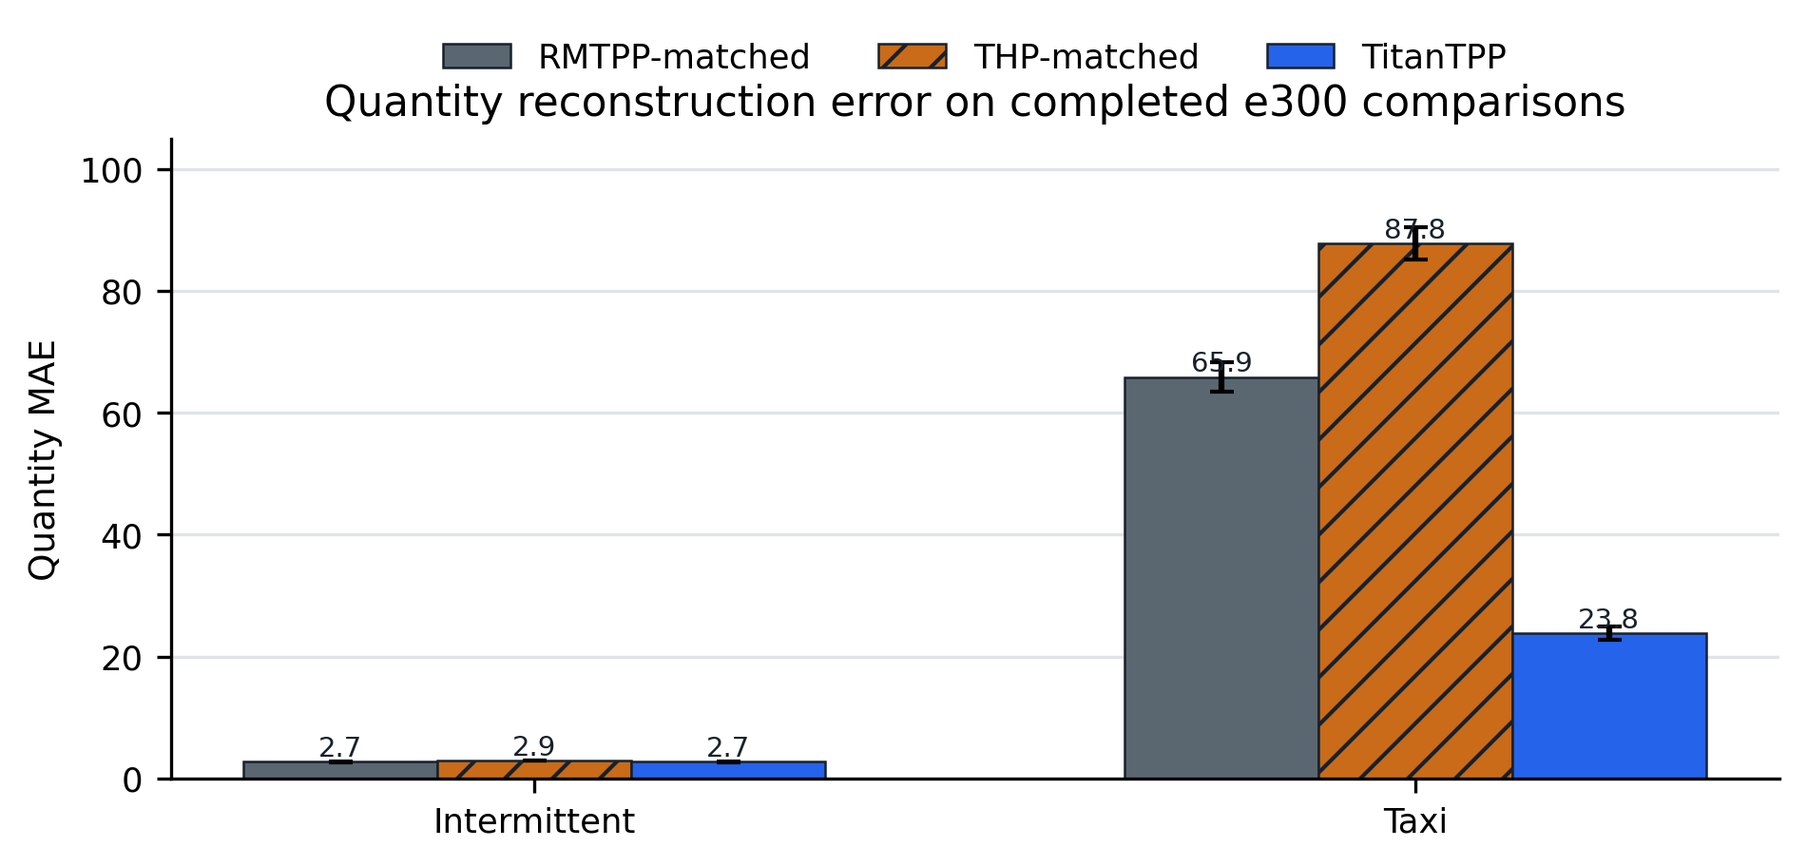
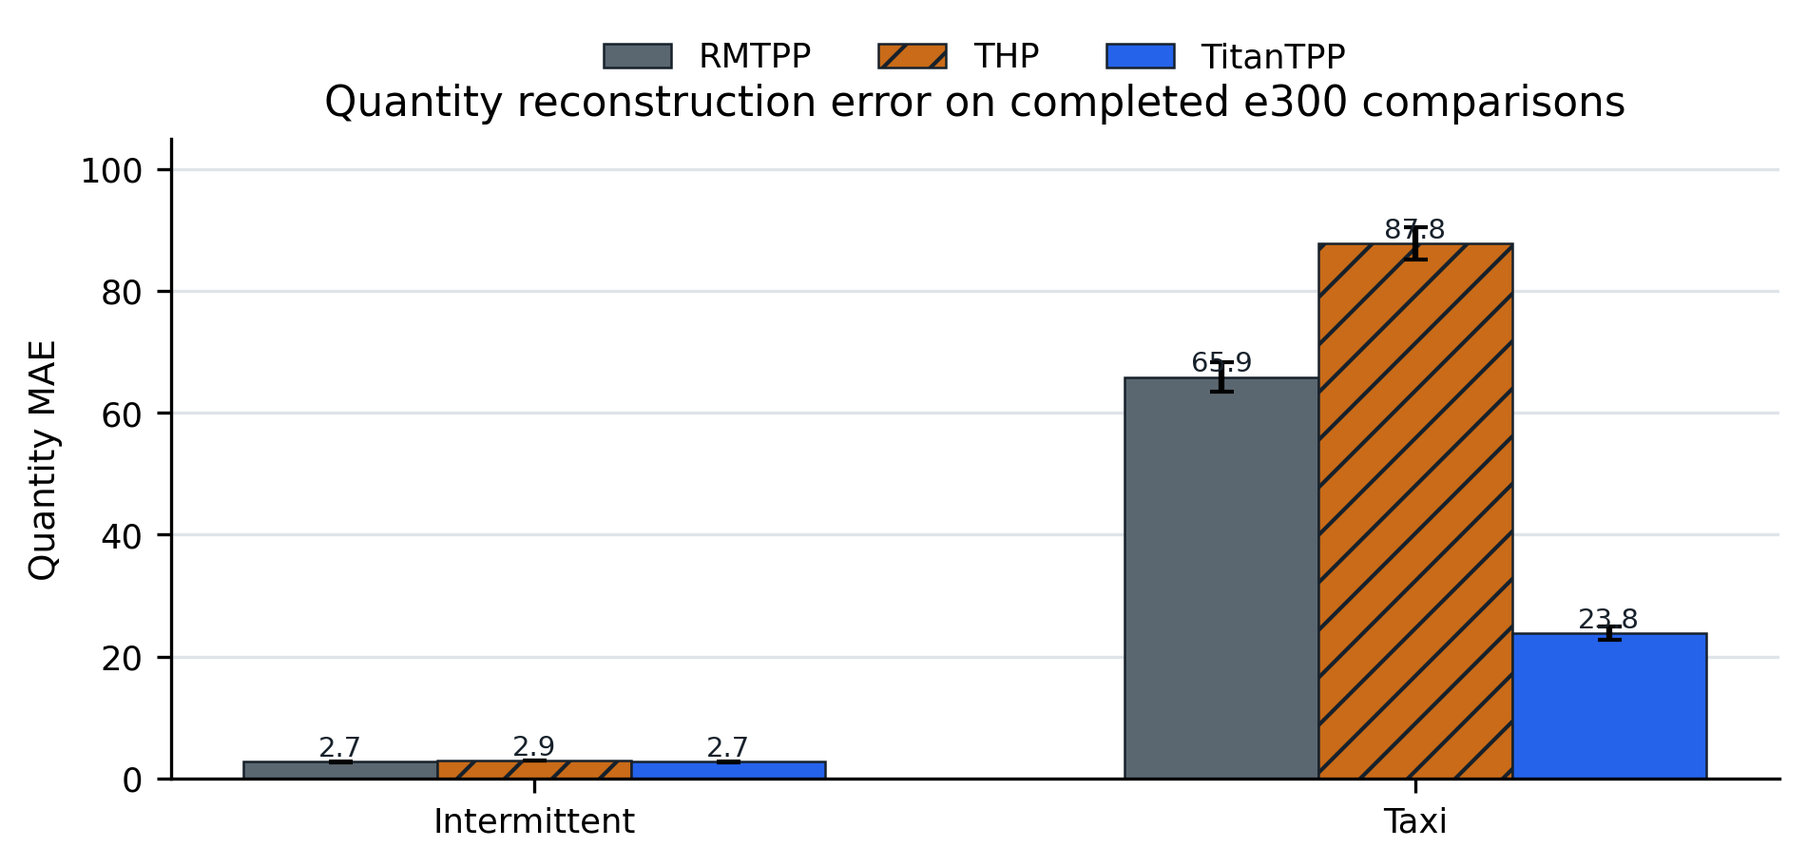
docs: simplify baseline labels and metric notation

Changed region(s): [[0.5587, 0.0307, 0.838, 0.0921], [0.2483, 0.0307, 0.4655, 0.0921]]

diff --git a/paper/scripts/build_inter_taxi_e300_results.py b/paper/scripts/build_inter_taxi_e300_results.py
@@ -27,17 +27,17 @@ DATASET_LABELS = {
 }
 
 MODEL_LABELS = {
-    "rmtpp": "RMTPP-matched",
-    "thp": "THP-matched",
+    "rmtpp": "RMTPP",
+    "thp": "THP",
     "titantpp": "TitanTPP",
 }
 
-MODEL_ORDER = ["RMTPP-matched", "THP-matched", "TitanTPP"]
+MODEL_ORDER = ["RMTPP", "THP", "TitanTPP"]
 DATASET_ORDER = ["Intermittent", "Taxi"]
 
 STYLE = {
-    "RMTPP-matched": {"color": "#5B6770", "hatch": ""},
-    "THP-matched": {"color": "#C96B18", "hatch": "//"},
+    "RMTPP": {"color": "#5B6770", "hatch": ""},
+    "THP": {"color": "#C96B18", "hatch": "//"},
     "TitanTPP": {"color": "#2563EB", "hatch": ""},
 }
 
@@ -85,13 +85,13 @@ def summarize(rows: pd.DataFrame) -> pd.DataFrame:
 
 
 def mean_std(row: pd.Series, metric: str, digits: int = 4) -> str:
-    return f"{row[f'{metric}_mean']:.{digits}f} +/- {row[f'{metric}_std']:.{digits}f}"
+    return f"{row[f'{metric}_mean']:.{digits}f} ± {row[f'{metric}_std']:.{digits}f}"
 
 
 def acc_mean_std(row: pd.Series) -> str:
     mean = row["best_val_nll_mark_acc_mean"] * 100.0
     std = row["best_val_nll_mark_acc_std"] * 100.0
-    return f"{mean:.3f}% +/- {std:.3f}%p"
+    return f"{mean:.3f}% ± {std:.3f}%p"
 
 
 def write_tables(summary: pd.DataFrame) -> None:

diff --git a/README.md b/README.md
@@ -75,7 +75,7 @@ $$
 \mathcal{L}=\mathcal{L}_{\mathrm{mark}}+\lambda_t\mathcal{L}_{\mathrm{time}}+\lambda_r\mathcal{L}_{\mathrm{res}}+\lambda_q\mathcal{L}_{\mathrm{qty}}.
 $$
 
-The compared models differ mainly in the history encoder. RMTPP-matched employs a GRU encoder, THP-matched employs a Transformer encoder, and TitanTPP employs a Titan-style causal memory-attention encoder with persistent memory. Intermittent and Instacart adopt a shared residual head and coupled gradient flow, while Taxi adopts mark-conditioned residual experts and detached quantity-to-mark gradients. Validation and test do not update memory, and state is not transferred across unrelated demand series.
+The compared models differ mainly in the history encoder. RMTPP employs a GRU encoder, THP employs a Transformer encoder, and TitanTPP employs a Titan-style causal memory-attention encoder with persistent memory. Intermittent and Instacart adopt a shared residual head and coupled gradient flow, while Taxi adopts mark-conditioned residual experts and detached quantity-to-mark gradients. Validation and test do not update memory, and state is not transferred across unrelated demand series.
 
 Figure 1 describes the proposed model flow. Event history enters the TitanTPP encoder, the encoder state feeds time and magnitude-mark heads, and the quantity path reconstructs demand through the mark-residual decoder. Figure 2 visualizes the quantity decomposition, including raw quantity, transformed magnitude mark, residual, and inverse reconstruction.
 
@@ -93,7 +93,7 @@ The evaluation uses Intermittent, Taxi, and Instacart demand-event datasets. Int
 | Taxi | 131 | 55,119 | 405 / 743 / 744 | 7 / 1,547 / 6,489 | 4 | 10 |
 | Instacart | 206,209 | 3,279,521 | 10 / 50 / 100 | 8 / 25 / 177 | 8 | 2 |
 
-RMTPP-matched and THP-matched are adapted baselines. They retain the encoder family of each original model, but they share the paper's residual quantity input, hybrid objective, output interface, fixed split, and checkpoint rule. This naming avoids presenting the runs as exact reproductions of the original RMTPP or THP papers. All models use seeds 42, 52, and 62, AdamW with learning rate 0.001, batch size 128, strict reproducibility mode, and minimum validation total NLL as the checkpoint rule. The held-out test split is evaluated once after validation-based model selection.
+RMTPP and THP are used as adapted baselines. Each baseline retains its original encoder family, but it shares the paper's quantity-aware input, output interface, hybrid objective, fixed split, and checkpoint rule. All models use seeds 42, 52, and 62, AdamW with learning rate 0.001, batch size 128, strict reproducibility mode, and minimum validation total NLL as the checkpoint rule. Values are reported as mean ± standard deviation over the three seeds. The held-out test split is evaluated once after validation-based model selection.
 
 ### 4.2 Results
 
@@ -101,14 +101,14 @@ Table 2 reports validation performance for Intermittent and Taxi, where all thre
 
 | Dataset | Model | Val NLL | Qty MAE | Delta-t MAE | Mark acc |
 |---|---|---:|---:|---:|---:|
-| Intermittent | RMTPP-matched | 5.6683 +/- 0.0115 | 2.7408 +/- 0.0493 | 41.8872 +/- 0.5030 | 55.183% +/- 0.236%p |
-| Intermittent | THP-matched | 5.6417 +/- 0.0305 | 2.8812 +/- 0.0177 | 40.5947 +/- 0.3284 | 54.235% +/- 0.637%p |
-| Intermittent | TitanTPP | 5.6171 +/- 0.0158 | 2.7188 +/- 0.1336 | 41.4268 +/- 0.5581 | 55.194% +/- 1.293%p |
-| Taxi | RMTPP-matched | 1.5803 +/- 0.0032 | 65.8580 +/- 2.4748 | 0.7326 +/- 0.0085 | 91.800% +/- 0.117%p |
-| Taxi | THP-matched | 1.5998 +/- 0.0087 | 87.7508 +/- 2.6771 | 0.7528 +/- 0.0224 | 91.461% +/- 0.202%p |
-| Taxi | TitanTPP | 1.5458 +/- 0.0048 | 23.7722 +/- 1.0929 | 0.7374 +/- 0.0151 | 92.606% +/- 0.134%p |
+| Intermittent | RMTPP | 5.6683 ± 0.0115 | 2.7408 ± 0.0493 | 41.8872 ± 0.5030 | 55.183% ± 0.236%p |
+| Intermittent | THP | 5.6417 ± 0.0305 | 2.8812 ± 0.0177 | 40.5947 ± 0.3284 | 54.235% ± 0.637%p |
+| Intermittent | TitanTPP | 5.6171 ± 0.0158 | 2.7188 ± 0.1336 | 41.4268 ± 0.5581 | 55.194% ± 1.293%p |
+| Taxi | RMTPP | 1.5803 ± 0.0032 | 65.8580 ± 2.4748 | 0.7326 ± 0.0085 | 91.800% ± 0.117%p |
+| Taxi | THP | 1.5998 ± 0.0087 | 87.7508 ± 2.6771 | 0.7528 ± 0.0224 | 91.461% ± 0.202%p |
+| Taxi | TitanTPP | 1.5458 ± 0.0048 | 23.7722 ± 1.0929 | 0.7374 ± 0.0151 | 92.606% ± 0.134%p |
 
-On Intermittent, TitanTPP obtains the lowest validation NLL and quantity MAE among the three models, while its event-time error remains between RMTPP-matched and THP-matched. On Taxi, TitanTPP obtains the lowest validation NLL, the lowest quantity MAE, and the highest mark accuracy; RMTPP-matched retains a small advantage on $\Delta t$ MAE. These results support a bounded claim: the TitanTPP formulation improves likelihood and quantity reconstruction on the completed comparisons, but event-time prediction still depends on the dataset and metric.
+On Intermittent, TitanTPP obtains the lowest validation NLL and quantity MAE among the three models, while its event-time error remains between RMTPP and THP. On Taxi, TitanTPP obtains the lowest validation NLL, the lowest quantity MAE, and the highest mark accuracy; RMTPP retains a small advantage on $\Delta t$ MAE. These results support a bounded claim: the TitanTPP formulation improves likelihood and quantity reconstruction on the completed comparisons, but event-time prediction still depends on the dataset and metric.
 
 ![Validation NLL comparison](paper/results/e300_matched_20260808/figures/inter_taxi_e300_validation_nll.png)
 
@@ -116,13 +116,13 @@ On Intermittent, TitanTPP obtains the lowest validation NLL and quantity MAE amo
 
 ### 4.3 Ablation and analysis
 
-The ablation focuses on model components that directly support the proposed formulation. The first analysis compares RMTPP-original and RMTPP-matched to estimate the effect of the quantity interface, although this comparison changes several components and should be interpreted cautiously. The second analysis compares RMTPP-matched, THP-matched, and TitanTPP under the same quantity representation to separate encoder effects. The third analysis focuses on Taxi, where mark-conditioned residual experts and detached quantity-to-mark gradients are used to reduce interference between quantity reconstruction and event likelihood.
+The ablation focuses on model components that directly support the proposed formulation. The first analysis compares RMTPP-original and RMTPP to estimate the effect of the quantity interface, although this comparison changes several components and should be interpreted cautiously. The second analysis compares RMTPP, THP, and TitanTPP under the same quantity representation to separate encoder effects. The third analysis focuses on Taxi, where mark-conditioned residual experts and detached quantity-to-mark gradients are used to reduce interference between quantity reconstruction and event likelihood.
 
 ## 5. Conclusion
 
 This paper formulates intermittent demand forecasting as a marked temporal point process with continuous quantity reconstruction. The formulation exposes two limitations of common neural TPP interfaces: recurrent history compression can be restrictive for long event histories, and categorical marks alone cannot reconstruct within-class demand variation. TitanTPP addresses these limitations through a Titan-style history encoder, a log-magnitude mark, a continuous residual, and a differentiable quantity decoder.
 
-The validation study evaluates RMTPP-matched, THP-matched, and TitanTPP under fixed chronological splits and a shared checkpoint rule. This design separates the proposed quantity-aware formulation from baseline encoder differences while keeping held-out test evaluation reserved for the final selected model. The resulting analysis is intended to support a bounded claim about long-history representation and continuous quantity reconstruction in event-based demand forecasting.
+The validation study evaluates RMTPP, THP, and TitanTPP under fixed chronological splits and a shared checkpoint rule. This design separates the proposed quantity-aware formulation from baseline encoder differences while keeping held-out test evaluation reserved for the final selected model. The resulting analysis is intended to support a bounded claim about long-history representation and continuous quantity reconstruction in event-based demand forecasting.
 
 ## References
 

diff --git a/paper/titantpp_short_paper_draft_v0_3_manuscript.md b/paper/titantpp_short_paper_draft_v0_3_manuscript.md
@@ -74,7 +74,7 @@ $$
 \mathcal{L}=\mathcal{L}_{\mathrm{mark}}+\lambda_t\mathcal{L}_{\mathrm{time}}+\lambda_r\mathcal{L}_{\mathrm{res}}+\lambda_q\mathcal{L}_{\mathrm{qty}}.
 $$
 
-The compared models differ mainly in the history encoder. RMTPP-matched employs a GRU encoder, THP-matched employs a Transformer encoder, and TitanTPP employs a Titan-style causal memory-attention encoder with persistent memory. Intermittent and Instacart adopt a shared residual head and coupled gradient flow, while Taxi adopts mark-conditioned residual experts and detached quantity-to-mark gradients. Validation and test do not update memory, and state is not transferred across unrelated demand series.
+The compared models differ mainly in the history encoder. RMTPP employs a GRU encoder, THP employs a Transformer encoder, and TitanTPP employs a Titan-style causal memory-attention encoder with persistent memory. Intermittent and Instacart adopt a shared residual head and coupled gradient flow, while Taxi adopts mark-conditioned residual experts and detached quantity-to-mark gradients. Validation and test do not update memory, and state is not transferred across unrelated demand series.
 
 Figure 1 describes the proposed model flow. Event history enters the TitanTPP encoder, the encoder state feeds time and magnitude-mark heads, and the quantity path reconstructs demand through the mark-residual decoder. Figure 2 visualizes the quantity decomposition, including raw quantity, transformed magnitude mark, residual, and inverse reconstruction.
 
@@ -92,7 +92,7 @@ The evaluation uses Intermittent, Taxi, and Instacart demand-event datasets. Int
 | Taxi | 131 | 55,119 | 405 / 743 / 744 | 7 / 1,547 / 6,489 | 4 | 10 |
 | Instacart | 206,209 | 3,279,521 | 10 / 50 / 100 | 8 / 25 / 177 | 8 | 2 |
 
-RMTPP-matched and THP-matched are adapted baselines. They retain the encoder family of each original model, but they share the paper's residual quantity input, hybrid objective, output interface, fixed split, and checkpoint rule. This naming avoids presenting the runs as exact reproductions of the original RMTPP or THP papers. All models use seeds 42, 52, and 62, AdamW with learning rate 0.001, batch size 128, strict reproducibility mode, and minimum validation total NLL as the checkpoint rule. The held-out test split is evaluated once after validation-based model selection.
+RMTPP and THP are used as adapted baselines. Each baseline retains its original encoder family, but it shares the paper's quantity-aware input, output interface, hybrid objective, fixed split, and checkpoint rule. All models use seeds 42, 52, and 62, AdamW with learning rate 0.001, batch size 128, strict reproducibility mode, and minimum validation total NLL as the checkpoint rule. Values are reported as mean ± standard deviation over the three seeds. The held-out test split is evaluated once after validation-based model selection.
 
 ### 4.2 Results
 
@@ -100,14 +100,14 @@ Table 2 reports validation performance for Intermittent and Taxi, where all thre
 
 | Dataset | Model | Val NLL | Qty MAE | Delta-t MAE | Mark acc |
 |---|---|---:|---:|---:|---:|
-| Intermittent | RMTPP-matched | 5.6683 +/- 0.0115 | 2.7408 +/- 0.0493 | 41.8872 +/- 0.5030 | 55.183% +/- 0.236%p |
-| Intermittent | THP-matched | 5.6417 +/- 0.0305 | 2.8812 +/- 0.0177 | 40.5947 +/- 0.3284 | 54.235% +/- 0.637%p |
-| Intermittent | TitanTPP | 5.6171 +/- 0.0158 | 2.7188 +/- 0.1336 | 41.4268 +/- 0.5581 | 55.194% +/- 1.293%p |
-| Taxi | RMTPP-matched | 1.5803 +/- 0.0032 | 65.8580 +/- 2.4748 | 0.7326 +/- 0.0085 | 91.800% +/- 0.117%p |
-| Taxi | THP-matched | 1.5998 +/- 0.0087 | 87.7508 +/- 2.6771 | 0.7528 +/- 0.0224 | 91.461% +/- 0.202%p |
-| Taxi | TitanTPP | 1.5458 +/- 0.0048 | 23.7722 +/- 1.0929 | 0.7374 +/- 0.0151 | 92.606% +/- 0.134%p |
+| Intermittent | RMTPP | 5.6683 ± 0.0115 | 2.7408 ± 0.0493 | 41.8872 ± 0.5030 | 55.183% ± 0.236%p |
+| Intermittent | THP | 5.6417 ± 0.0305 | 2.8812 ± 0.0177 | 40.5947 ± 0.3284 | 54.235% ± 0.637%p |
+| Intermittent | TitanTPP | 5.6171 ± 0.0158 | 2.7188 ± 0.1336 | 41.4268 ± 0.5581 | 55.194% ± 1.293%p |
+| Taxi | RMTPP | 1.5803 ± 0.0032 | 65.8580 ± 2.4748 | 0.7326 ± 0.0085 | 91.800% ± 0.117%p |
+| Taxi | THP | 1.5998 ± 0.0087 | 87.7508 ± 2.6771 | 0.7528 ± 0.0224 | 91.461% ± 0.202%p |
+| Taxi | TitanTPP | 1.5458 ± 0.0048 | 23.7722 ± 1.0929 | 0.7374 ± 0.0151 | 92.606% ± 0.134%p |
 
-On Intermittent, TitanTPP obtains the lowest validation NLL and quantity MAE among the three models, while its event-time error remains between RMTPP-matched and THP-matched. On Taxi, TitanTPP obtains the lowest validation NLL, the lowest quantity MAE, and the highest mark accuracy; RMTPP-matched retains a small advantage on $\Delta t$ MAE. These results support a bounded claim: the TitanTPP formulation improves likelihood and quantity reconstruction on the completed comparisons, but event-time prediction still depends on the dataset and metric.
+On Intermittent, TitanTPP obtains the lowest validation NLL and quantity MAE among the three models, while its event-time error remains between RMTPP and THP. On Taxi, TitanTPP obtains the lowest validation NLL, the lowest quantity MAE, and the highest mark accuracy; RMTPP retains a small advantage on $\Delta t$ MAE. These results support a bounded claim: the TitanTPP formulation improves likelihood and quantity reconstruction on the completed comparisons, but event-time prediction still depends on the dataset and metric.
 
 ![Validation NLL comparison](results/e300_matched_20260808/figures/inter_taxi_e300_validation_nll.png)
 
@@ -115,13 +115,13 @@ On Intermittent, TitanTPP obtains the lowest validation NLL and quantity MAE amo
 
 ### 4.3 Ablation and analysis
 
-The ablation focuses on model components that directly support the proposed formulation. The first analysis compares RMTPP-original and RMTPP-matched to estimate the effect of the quantity interface, although this comparison changes several components and should be interpreted cautiously. The second analysis compares RMTPP-matched, THP-matched, and TitanTPP under the same quantity representation to separate encoder effects. The third analysis focuses on Taxi, where mark-conditioned residual experts and detached quantity-to-mark gradients are used to reduce interference between quantity reconstruction and event likelihood.
+The ablation focuses on model components that directly support the proposed formulation. The first analysis compares RMTPP-original and RMTPP to estimate the effect of the quantity interface, although this comparison changes several components and should be interpreted cautiously. The second analysis compares RMTPP, THP, and TitanTPP under the same quantity representation to separate encoder effects. The third analysis focuses on Taxi, where mark-conditioned residual experts and detached quantity-to-mark gradients are used to reduce interference between quantity reconstruction and event likelihood.
 
 ## 5. Conclusion
 
 This paper formulates intermittent demand forecasting as a marked temporal point process with continuous quantity reconstruction. The formulation exposes two limitations of common neural TPP interfaces: recurrent history compression can be restrictive for long event histories, and categorical marks alone cannot reconstruct within-class demand variation. TitanTPP addresses these limitations through a Titan-style history encoder, a log-magnitude mark, a continuous residual, and a differentiable quantity decoder.
 
-The validation study evaluates RMTPP-matched, THP-matched, and TitanTPP under fixed chronological splits and a shared checkpoint rule. This design separates the proposed quantity-aware formulation from baseline encoder differences while keeping held-out test evaluation reserved for the final selected model. The resulting analysis is intended to support a bounded claim about long-history representation and continuous quantity reconstruction in event-based demand forecasting.
+The validation study evaluates RMTPP, THP, and TitanTPP under fixed chronological splits and a shared checkpoint rule. This design separates the proposed quantity-aware formulation from baseline encoder differences while keeping held-out test evaluation reserved for the final selected model. The resulting analysis is intended to support a bounded claim about long-history representation and continuous quantity reconstruction in event-based demand forecasting.
 
 ## References
 

diff --git a/paper/results/e300_matched_20260808/result_briefing.md b/paper/results/e300_matched_20260808/result_briefing.md
@@ -2,7 +2,7 @@
 
 ## Verdict
 
-- Intermittent and Taxi now have matched e300 validation results for RMTPP-matched, THP-matched, and TitanTPP.
+- Intermittent and Taxi now have e300 validation results for RMTPP, THP, and TitanTPP under the same fixed-split protocol.
 - Instacart remains outside the manuscript comparison table until TitanTPP e300 completes under the same validation protocol.
 - The completed rows support a bounded claim: TitanTPP improves validation NLL and quantity MAE on both Intermittent and Taxi, while event-time error remains dataset dependent.
 
@@ -12,12 +12,12 @@ Lower is better for Val NLL, Qty MAE, and Delta-t MAE. Higher is better for Mark
 
 | Dataset | Model | n | Val NLL | Qty MAE | Delta-t MAE | Mark acc | Best epoch |
 |---|---|---:|---:|---:|---:|---:|---:|
-| Intermittent | RMTPP-matched | 3 | 5.6683 +/- 0.0115 | 2.7408 +/- 0.0493 | 41.8872 +/- 0.5030 | 55.183% +/- 0.236%p | 42.3 |
-| Intermittent | THP-matched | 3 | 5.6417 +/- 0.0305 | 2.8812 +/- 0.0177 | 40.5947 +/- 0.3284 | 54.235% +/- 0.637%p | 24.7 |
-| Intermittent | TitanTPP | 3 | 5.6171 +/- 0.0158 | 2.7188 +/- 0.1336 | 41.4268 +/- 0.5581 | 55.194% +/- 1.293%p | 45.7 |
-| Taxi | RMTPP-matched | 3 | 1.5803 +/- 0.0032 | 65.8580 +/- 2.4748 | 0.7326 +/- 0.0085 | 91.800% +/- 0.117%p | 92.7 |
-| Taxi | THP-matched | 3 | 1.5998 +/- 0.0087 | 87.7508 +/- 2.6771 | 0.7528 +/- 0.0224 | 91.461% +/- 0.202%p | 36.3 |
-| Taxi | TitanTPP | 3 | 1.5458 +/- 0.0048 | 23.7722 +/- 1.0929 | 0.7374 +/- 0.0151 | 92.606% +/- 0.134%p | 220.3 |
+| Intermittent | RMTPP | 3 | 5.6683 ± 0.0115 | 2.7408 ± 0.0493 | 41.8872 ± 0.5030 | 55.183% ± 0.236%p | 42.3 |
+| Intermittent | THP | 3 | 5.6417 ± 0.0305 | 2.8812 ± 0.0177 | 40.5947 ± 0.3284 | 54.235% ± 0.637%p | 24.7 |
+| Intermittent | TitanTPP | 3 | 5.6171 ± 0.0158 | 2.7188 ± 0.1336 | 41.4268 ± 0.5581 | 55.194% ± 1.293%p | 45.7 |
+| Taxi | RMTPP | 3 | 1.5803 ± 0.0032 | 65.8580 ± 2.4748 | 0.7326 ± 0.0085 | 91.800% ± 0.117%p | 92.7 |
+| Taxi | THP | 3 | 1.5998 ± 0.0087 | 87.7508 ± 2.6771 | 0.7528 ± 0.0224 | 91.461% ± 0.202%p | 36.3 |
+| Taxi | TitanTPP | 3 | 1.5458 ± 0.0048 | 23.7722 ± 1.0929 | 0.7374 ± 0.0151 | 92.606% ± 0.134%p | 220.3 |
 
 ## Figure files
 

diff --git a/paper/results/e300_matched_20260808/tables/inter_taxi_e300_summary.md b/paper/results/e300_matched_20260808/tables/inter_taxi_e300_summary.md
@@ -4,9 +4,9 @@ Lower is better for Val NLL, Qty MAE, and Delta-t MAE. Higher is better for Mark
 
 | Dataset | Model | n | Val NLL | Qty MAE | Delta-t MAE | Mark acc | Best epoch |
 |---|---|---:|---:|---:|---:|---:|---:|
-| Intermittent | RMTPP-matched | 3 | 5.6683 +/- 0.0115 | 2.7408 +/- 0.0493 | 41.8872 +/- 0.5030 | 55.183% +/- 0.236%p | 42.3 |
-| Intermittent | THP-matched | 3 | 5.6417 +/- 0.0305 | 2.8812 +/- 0.0177 | 40.5947 +/- 0.3284 | 54.235% +/- 0.637%p | 24.7 |
-| Intermittent | TitanTPP | 3 | 5.6171 +/- 0.0158 | 2.7188 +/- 0.1336 | 41.4268 +/- 0.5581 | 55.194% +/- 1.293%p | 45.7 |
-| Taxi | RMTPP-matched | 3 | 1.5803 +/- 0.0032 | 65.8580 +/- 2.4748 | 0.7326 +/- 0.0085 | 91.800% +/- 0.117%p | 92.7 |
-| Taxi | THP-matched | 3 | 1.5998 +/- 0.0087 | 87.7508 +/- 2.6771 | 0.7528 +/- 0.0224 | 91.461% +/- 0.202%p | 36.3 |
-| Taxi | TitanTPP | 3 | 1.5458 +/- 0.0048 | 23.7722 +/- 1.0929 | 0.7374 +/- 0.0151 | 92.606% +/- 0.134%p | 220.3 |
+| Intermittent | RMTPP | 3 | 5.6683 ± 0.0115 | 2.7408 ± 0.0493 | 41.8872 ± 0.5030 | 55.183% ± 0.236%p | 42.3 |
+| Intermittent | THP | 3 | 5.6417 ± 0.0305 | 2.8812 ± 0.0177 | 40.5947 ± 0.3284 | 54.235% ± 0.637%p | 24.7 |
+| Intermittent | TitanTPP | 3 | 5.6171 ± 0.0158 | 2.7188 ± 0.1336 | 41.4268 ± 0.5581 | 55.194% ± 1.293%p | 45.7 |
+| Taxi | RMTPP | 3 | 1.5803 ± 0.0032 | 65.8580 ± 2.4748 | 0.7326 ± 0.0085 | 91.800% ± 0.117%p | 92.7 |
+| Taxi | THP | 3 | 1.5998 ± 0.0087 | 87.7508 ± 2.6771 | 0.7528 ± 0.0224 | 91.461% ± 0.202%p | 36.3 |
+| Taxi | TitanTPP | 3 | 1.5458 ± 0.0048 | 23.7722 ± 1.0929 | 0.7374 ± 0.0151 | 92.606% ± 0.134%p | 220.3 |

diff --git a/paper/results/e300_matched_20260808/tables/preliminary_summary.md b/paper/results/e300_matched_20260808/tables/preliminary_summary.md
@@ -4,9 +4,9 @@ Lower is better for Val NLL, Qty MAE, and Delta-t MAE. Higher is better for Mark
 
 | Dataset | Model | n | Val NLL | Qty MAE | Delta-t MAE | Mark acc | Best epoch |
 |---|---|---:|---:|---:|---:|---:|---:|
-| Intermittent | RMTPP-matched | 3 | 5.6683 +/- 0.0115 | 2.7408 +/- 0.0493 | 41.8872 +/- 0.5030 | 55.183% +/- 0.236%p | 42.3 |
-| Intermittent | THP-matched | 3 | 5.6417 +/- 0.0305 | 2.8812 +/- 0.0177 | 40.5947 +/- 0.3284 | 54.235% +/- 0.637%p | 24.7 |
-| Intermittent | TitanTPP | 3 | 5.6171 +/- 0.0158 | 2.7188 +/- 0.1336 | 41.4268 +/- 0.5581 | 55.194% +/- 1.293%p | 45.7 |
-| Taxi | RMTPP-matched | 3 | 1.5803 +/- 0.0032 | 65.8580 +/- 2.4748 | 0.7326 +/- 0.0085 | 91.800% +/- 0.117%p | 92.7 |
-| Taxi | THP-matched | 3 | 1.5998 +/- 0.0087 | 87.7508 +/- 2.6771 | 0.7528 +/- 0.0224 | 91.461% +/- 0.202%p | 36.3 |
-| Taxi | TitanTPP | 3 | 1.5458 +/- 0.0048 | 23.7722 +/- 1.0929 | 0.7374 +/- 0.0151 | 92.606% +/- 0.134%p | 220.3 |
+| Intermittent | RMTPP | 3 | 5.6683 ± 0.0115 | 2.7408 ± 0.0493 | 41.8872 ± 0.5030 | 55.183% ± 0.236%p | 42.3 |
+| Intermittent | THP | 3 | 5.6417 ± 0.0305 | 2.8812 ± 0.0177 | 40.5947 ± 0.3284 | 54.235% ± 0.637%p | 24.7 |
+| Intermittent | TitanTPP | 3 | 5.6171 ± 0.0158 | 2.7188 ± 0.1336 | 41.4268 ± 0.5581 | 55.194% ± 1.293%p | 45.7 |
+| Taxi | RMTPP | 3 | 1.5803 ± 0.0032 | 65.8580 ± 2.4748 | 0.7326 ± 0.0085 | 91.800% ± 0.117%p | 92.7 |
+| Taxi | THP | 3 | 1.5998 ± 0.0087 | 87.7508 ± 2.6771 | 0.7528 ± 0.0224 | 91.461% ± 0.202%p | 36.3 |
+| Taxi | TitanTPP | 3 | 1.5458 ± 0.0048 | 23.7722 ± 1.0929 | 0.7374 ± 0.0151 | 92.606% ± 0.134%p | 220.3 |
